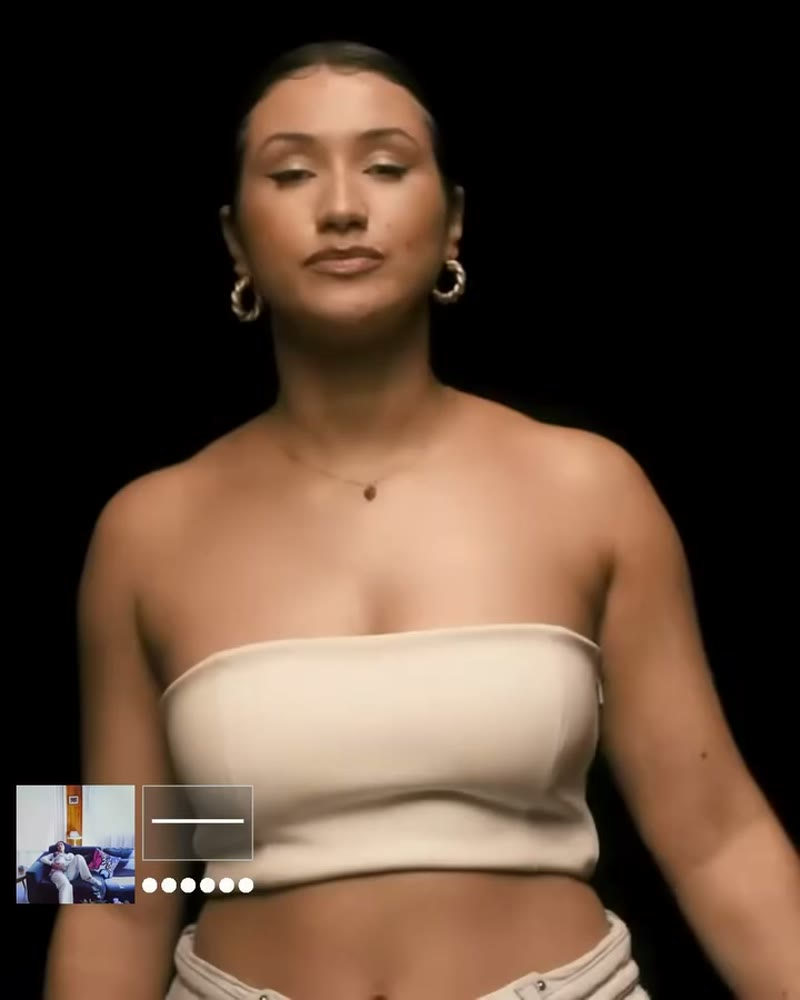
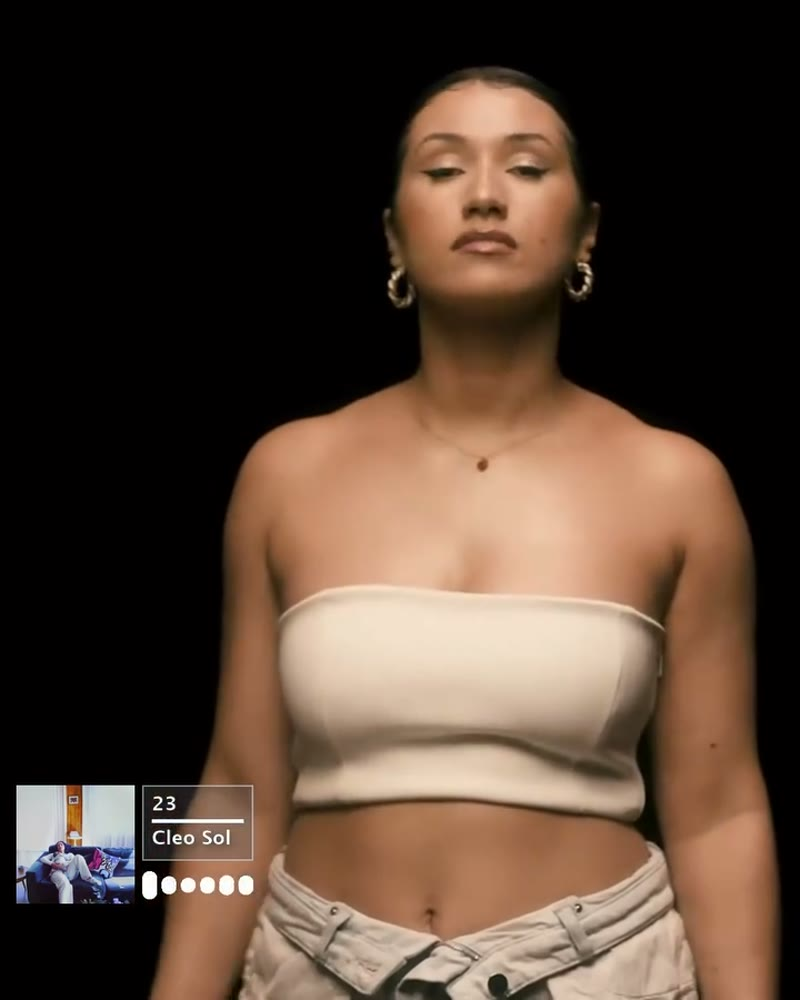
IG covers: use LAST frame of first slide (the designed covers) + real artist alt text

diff --git a/index.html b/index.html
@@ -157,19 +157,19 @@
     </div>
     <div class="ig-grid">
       <a class="ig-card reveal" href="https://www.instagram.com/musicdiscoveryhour/p/DYDxOQFmuO3/" target="_blank" rel="noopener">
-        <img src="assets/ig-1.jpg" alt="Singer performing against a black backdrop" loading="lazy">
+        <img src="assets/ig-1.jpg" alt="Cleo Sol — 23" loading="lazy">
         <span class="ig-arrow" aria-hidden="true">↗</span>
       </a>
       <a class="ig-card reveal" href="https://www.instagram.com/musicdiscoveryhour/p/DW7yKsQFJNR/" target="_blank" rel="noopener">
-        <img src="assets/ig-2.jpg" alt="Artist in a wide-brim hat and red scarf with their crew" loading="lazy">
+        <img src="assets/ig-2.jpg" alt="Little Simz — Gorilla" loading="lazy">
         <span class="ig-arrow" aria-hidden="true">↗</span>
       </a>
       <a class="ig-card reveal" href="https://www.instagram.com/musicdiscoveryhour/p/DVCYOpzEluY/" target="_blank" rel="noopener">
-        <img src="assets/ig-3.jpg" alt="Olivia Dean singing Echo at the microphone" loading="lazy">
+        <img src="assets/ig-3.jpg" alt="Olivia Dean — Echo" loading="lazy">
         <span class="ig-arrow" aria-hidden="true">↗</span>
       </a>
       <a class="ig-card reveal" href="https://www.instagram.com/musicdiscoveryhour/p/DTJMqB7E918/" target="_blank" rel="noopener">
-        <img src="assets/ig-4.jpg" alt="Guitarist performing an intimate desk session" loading="lazy">
+        <img src="assets/ig-4.jpg" alt="Daniel Caesar — Who Knows" loading="lazy">
         <span class="ig-arrow" aria-hidden="true">↗</span>
       </a>
     </div>

diff --git a/CLAUDE.md b/CLAUDE.md
@@ -62,10 +62,11 @@ nav row scrolls horizontally there.
   (ffmpeg `xfade` offset = len−2·fade), cropped ~75% biased right/up to exclude the
   burned-in BTC badge, 1280×720 CRF 27 → ~1MB. Don't replace with a hard-cut loop — the
   camera dollies, so a plain loop jump reads as a glitch.
-- **IG grid covers**: Instagram's API thumbnail is the *wrong frame* (last frame of slide 1).
-  The true cover = **frame zero of the first slide**: `yt-dlp --playlist-items 1` (with the
-  cookies file from the DiscoveryClipper backend) then `ffmpeg -frames:v 1`. Self-host as
-  `assets/ig-N.jpg` — never use IG embed.js (blocked/throttled; already tried and removed).
+- **IG grid covers**: the designed cover (song + artist sticker) is the **LAST frame of the
+  first slide** of each carousel. Get it with `yt-dlp --playlist-items 1` (cookies file from
+  the DiscoveryClipper backend) then `ffmpeg -sseof -0.15 -i slide1.mp4 -frames:v 1`.
+  Self-host as `assets/ig-N.jpg` — never use IG embed.js (blocked/throttled; already tried
+  and removed), and don't use IG's API thumbnail or frame zero (both are the wrong frame).
 
 ## Related but separate
 
